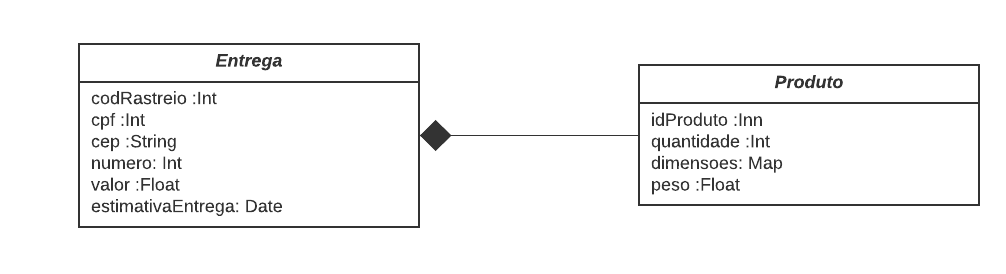
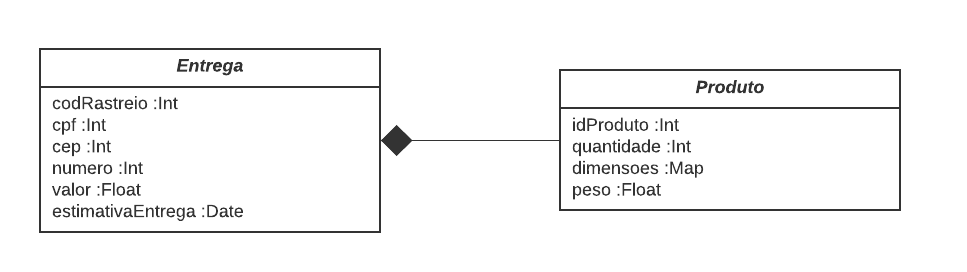
interface entrega

Changed region(s): [[0.3723, 0.2059, 0.9928, 0.7941], [0.031, 0.2941, 0.4343, 0.8824], [0.031, 0.1471, 0.4343, 0.2647]]

diff --git a/README.md b/README.md
@@ -611,10 +611,9 @@ As interfaces listadas são detalhadas a seguir:
 
 **Tópico**:  
 Assina: 
-`produto/{id}/dados`
-`cliente/{id}/dados` 
+`pedido/{id}/dados`
 Publica: 
-`pagamento/{id}/dados`
+`etrega/{id}/dados`
 
 Classes que representam objetos JSON associados às mensagens da interface:
 
@@ -622,23 +621,32 @@ Classes que representam objetos JSON associados às mensagens da interface:
 
 ~~~json
 {
-  "idPagamento": 44323,
+  "codRastreio": 455231,
   "cpf": 33242121233,
-  "dataPagamento": "2009-10-04",
-  "valor": 87.66,
-  "formaDePagamento": "Cartao de Credito",
-  "numeroParcelas": 9,
-  "statusPagamento": "Pendente",
+  "cep": 12332020,
+  "numero": 233
+  "valor": 12.22,
+  "estimativaEntrega": "2009-10-04",
   "produtos": {
     "produto": {
        "idProduto": "1245",
-	   "valor": 55.33,
        "quantitidade": 1
+	   "dimensoes": {
+			"largura": 22
+			"comprimento": 33
+			"altura": 45
+	   }
+	   "peso": 9.22
     },
     "produto": {
        "idProduto": "3323",
-	   "valor": 32.33,
-       "quantitidade": 1
+       "quantitidade": 3
+	   "dimensoes": {
+			"largura": 11
+			"comprimento": 44
+			"altura": 55
+	   }
+	   "peso": 8.12
     },
   }  
 }
@@ -649,20 +657,21 @@ Detalhamento da mensagem JSON:
 **Pagamento**
 Atributo | Descrição
 -------| --------
-idPagamento | identificador do pagamento
+codRastreio | identificador da entrega e codigo de rastreio da entrega para o cliente.
 cpf | cpf do cliente
-dataPagamento | data da efetivação do pagamento
-valor | valor total do pedido
-formaDePagamento | forma de pagamento (cartao crédito, débito, boleto, etc)
-numeroParcelas | quantidade de parcelas, caso parcelado, valor default 1
-statusPagamento | status do pagamento (pendente, recusado, finalizado)
+cep | CEP do destino da entrega
+cep | número do destino da entrega
+valor | valor cobrado pela transportadora pelo frete
+estimativaEntrega | data estimada para a entrega
 
 **Produto**
 Atributo | Descrição
 -------| --------
 idProduto | identificador do produto
 valor | valor do produto
-quantidade | quantidade de determinado produto no pedido do cliente
+quantidade | quantidade de determinado produto no pedido de entrega
+dimensões | dimensões do produto em cm
+peso | peso do produto em Kg
 
 ### Interface `Cliente`
 
